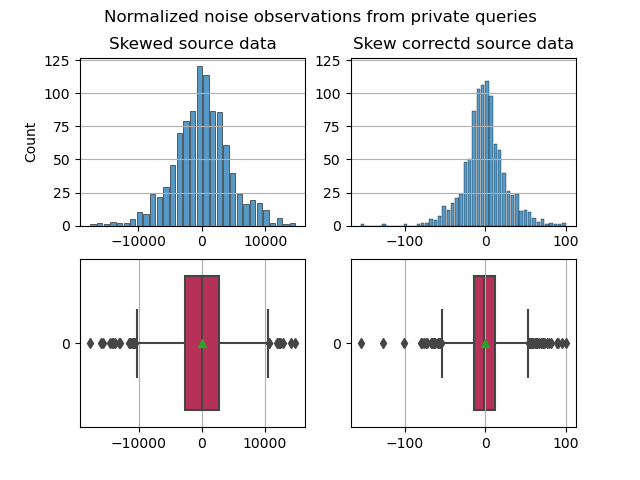
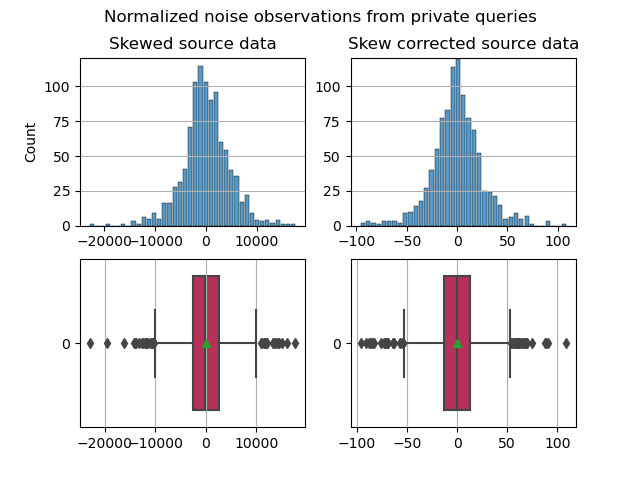
Correcting naming of final plot

diff --git a/laplace.py b/laplace.py
@@ -324,7 +324,7 @@ if __name__ == '__main__':
     normalized_histograms, axes = plt.subplots(2, 2)
     normalized_histograms.suptitle('Normalized noise observations from private queries')
     axes[0, 0].set_title('Skewed source data')
-    axes[0, 1].set_title('Skew correctd source data')
+    axes[0, 1].set_title('Skew corrected source data')
 
     # Plot left column: historgram (without scaling) and a boxplot demonstrating extreme right skewness of the data
     skewed_source_data_histo = histplot(
